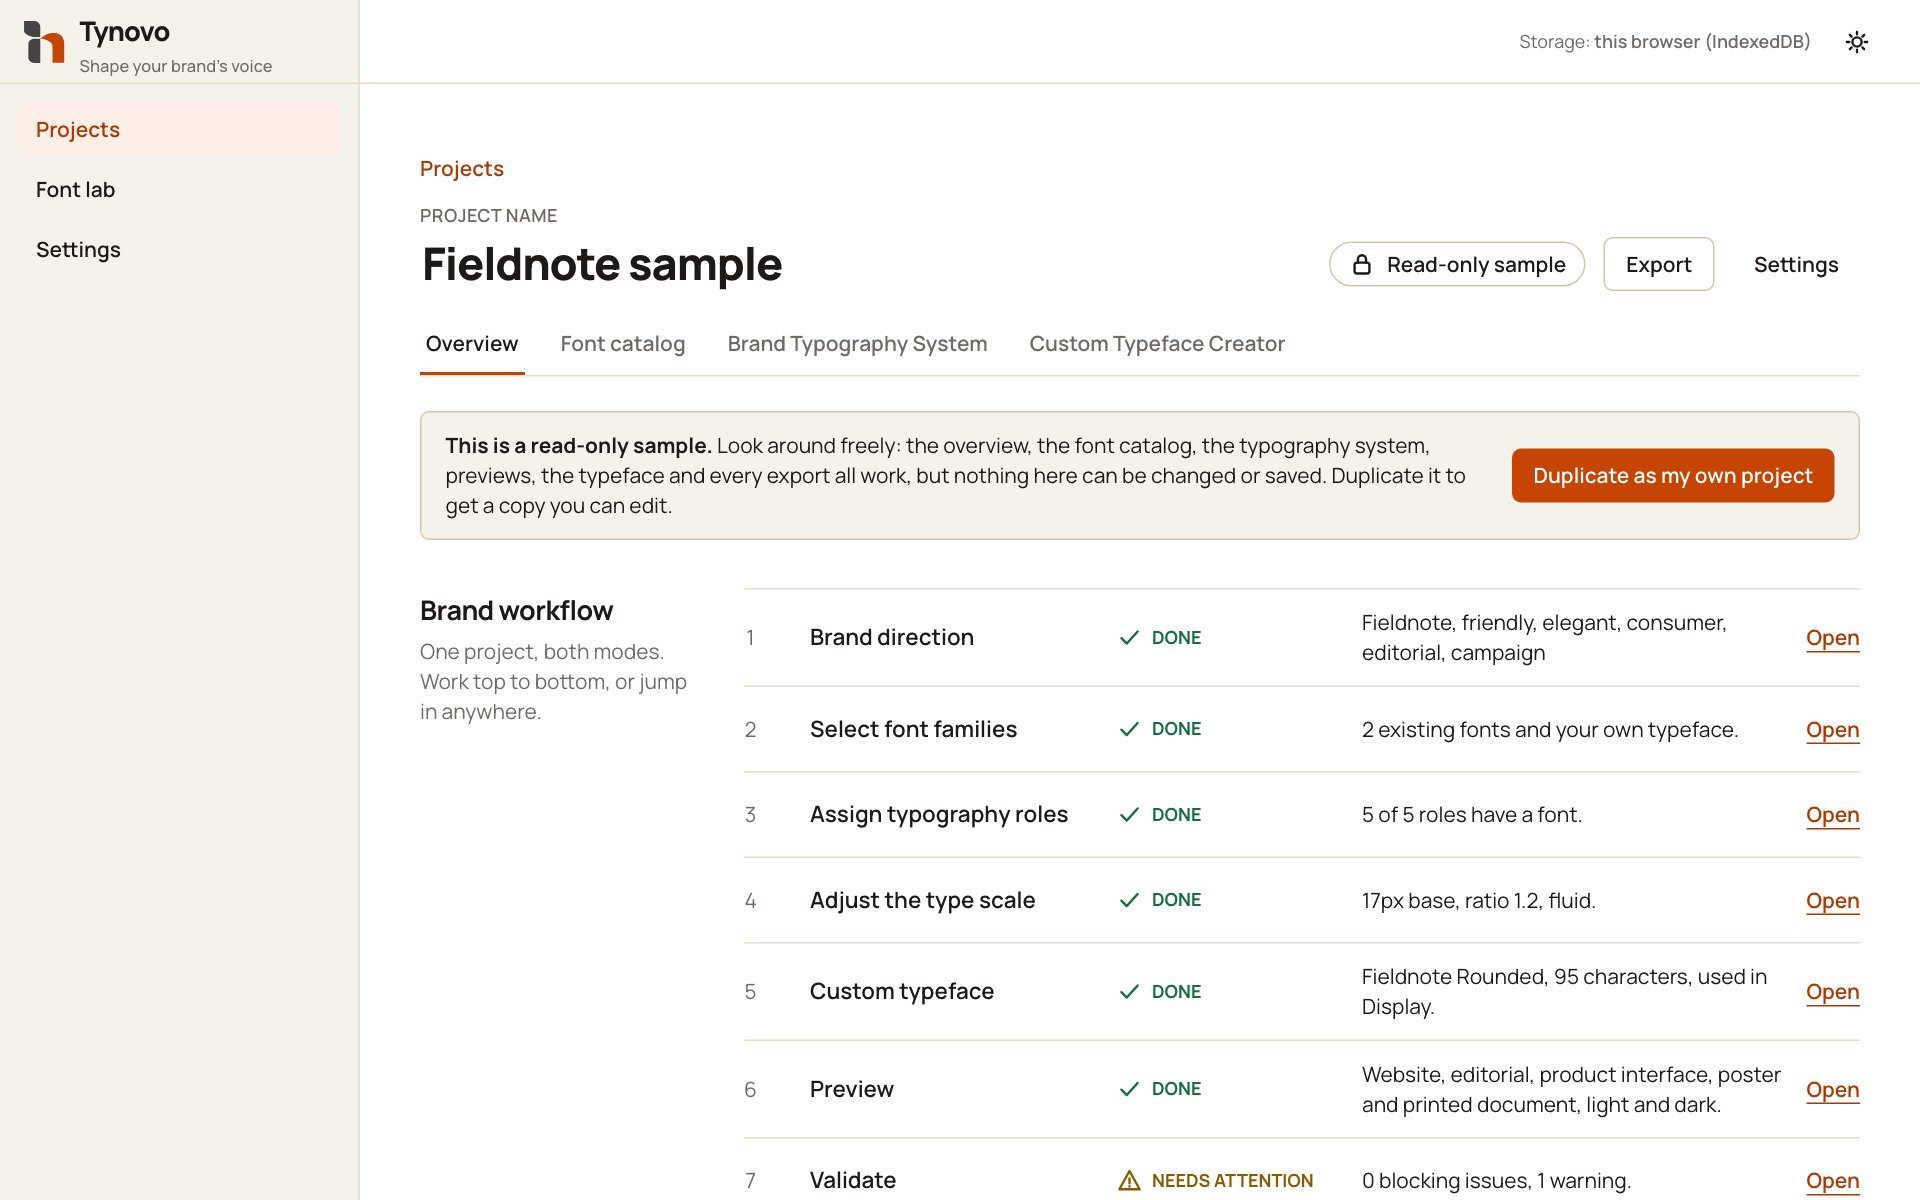
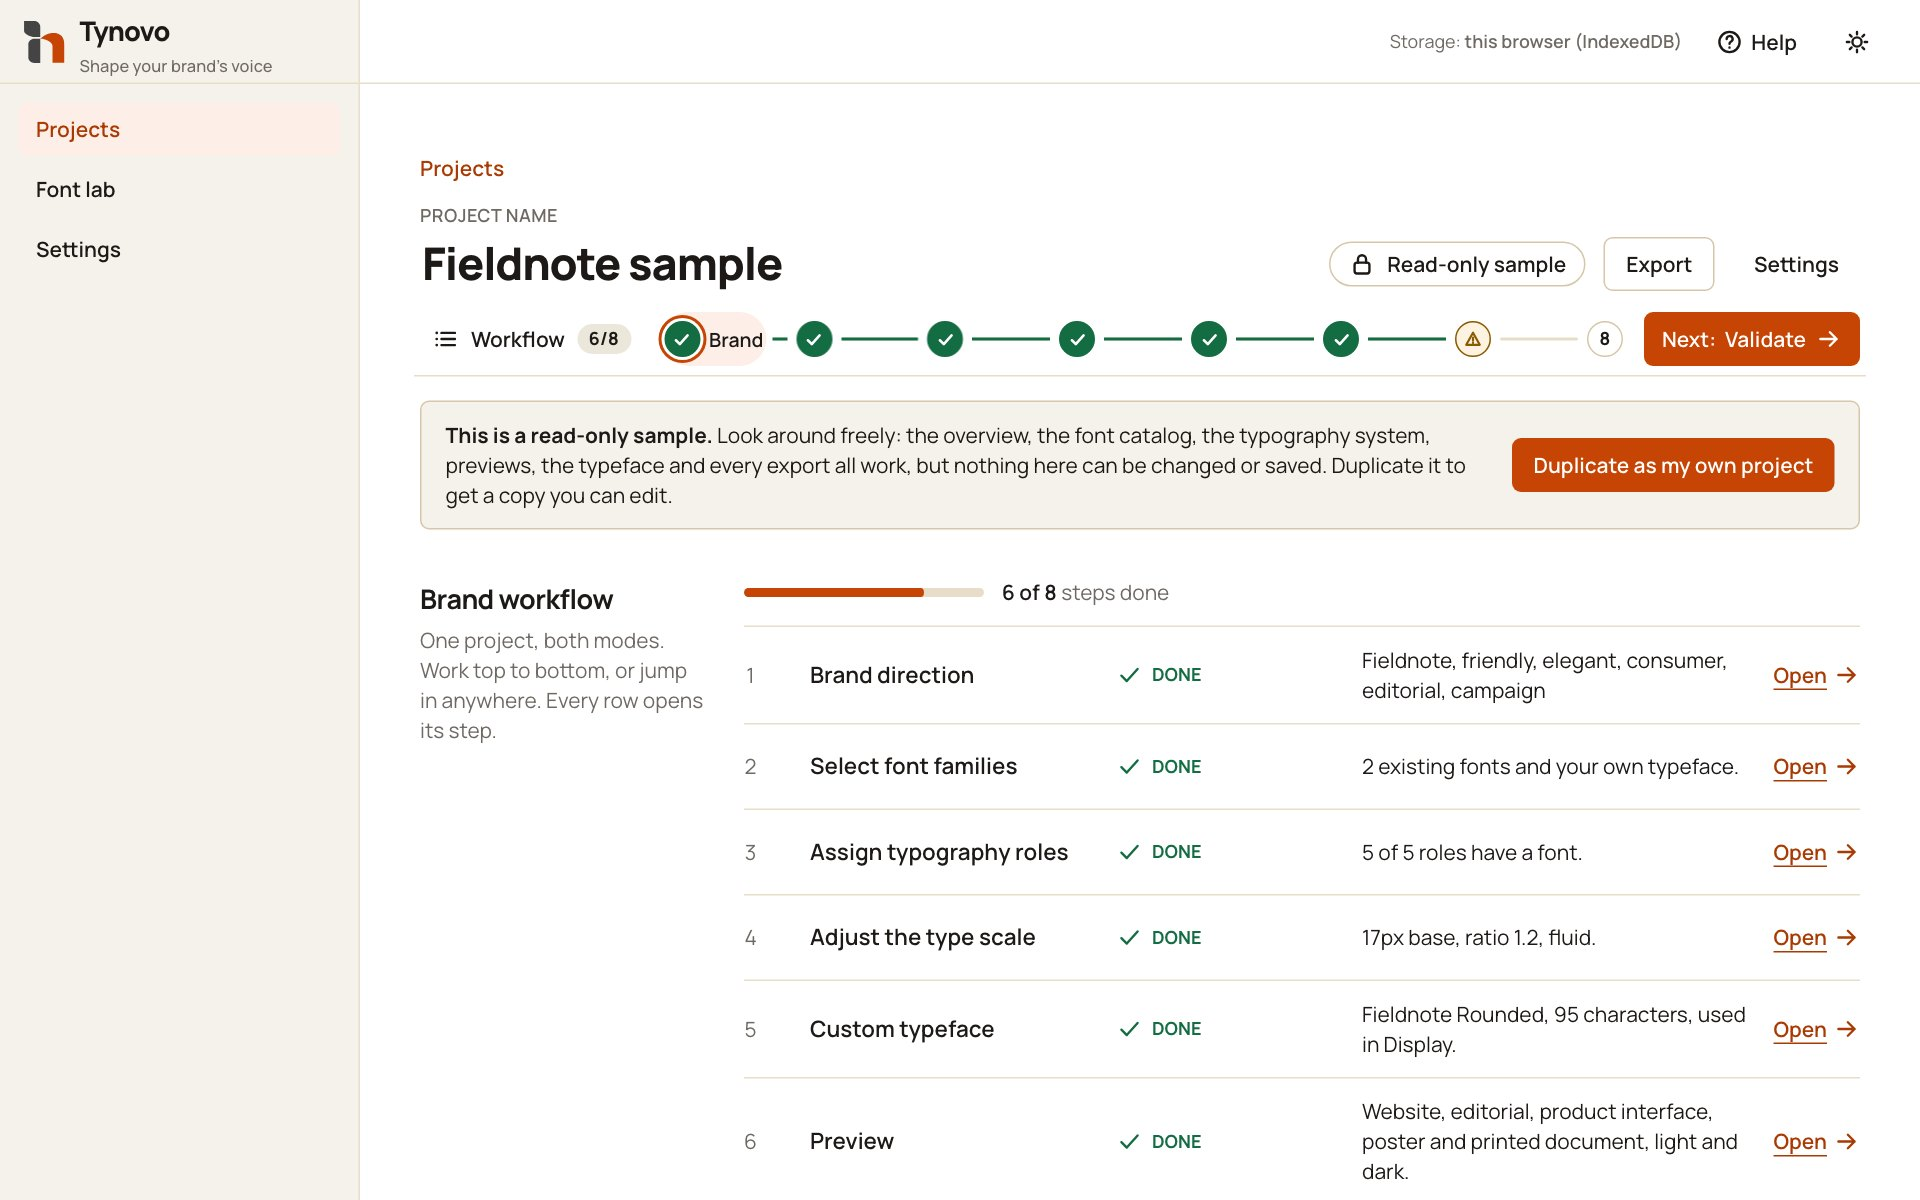
Drawer scrim, docs, FAQ and landing screenshots updated for the new navigation and Help

diff --git a/src/modules/marketing/content.ts b/src/modules/marketing/content.ts
@@ -142,6 +142,7 @@ export const FAQS: readonly Faq[] = [
   { group: 'Using it', q: 'Is there an example project I can look at?', a: 'Yes. Open the sample project from the projects page or from the link on the home page. It is a finished, invented project (a coffee brand called Fieldnote) with every screen filled in. It is read-only: nothing in it can be changed, saved or deleted, but you can browse everything, download its exports and duplicate it to get a copy of your own.' },
   { group: 'Using it', q: 'Will exporting my work ever cost money?', a: 'No plan can switch that off in the way Tynovo is built: exporting, importing, upgrading and recovering your own projects are protected in the code from any plan setting, and the tests check it. That describes how the software is built, not a contract, and no paid plan exists.' },
   { group: 'Using it', q: 'Do I need an account?', a: 'No. There is no sign-up and no database. Tynovo runs in your browser; its only server code is one small function that serves the optional AI suggestions.' },
+  { group: 'Using it', q: 'Is there help inside the app?', a: 'Yes. The Help button in the top bar, or the ? key, opens a side panel that explains the screen you are on and covers the two modes, the workflow, saving, keyboard shortcuts, the optional AI assist and the limits. Press anywhere outside a side panel, or Escape, to close it.' },
   { group: 'Using it', q: 'Where is my work stored?', a: 'In this browser, using IndexedDB. Clearing site data for this site deletes your projects, so export a project file to back up or to move work to another device. If the browser blocks storage, Tynovo says so and keeps work in memory only until you close the tab.' },
   { group: 'Using it', q: 'Does it use AI?', a: 'Only if you ask. Typefaces are generated by rules and parameters, and font suggestions and catalog ordering come from fixed scoring rules whose every point is shown. Two optional boxes (a brand direction on the Overview page, design settings in the typeface editor) can suggest values from a few sentences you write, using a language model (Groq) through a small function on the host. Only the text you type in that box is sent, only when you press its button; nothing is stored, nothing changes in your project until you apply the suggestion, and everything works without it. Do not put anything confidential in those boxes.' },
   { group: 'Using it', q: 'Can I use my own typeface in the typography system?', a: 'Yes. Assign it to display, heading, body, interface or caption roles. Tynovo offers it for a role only when it has the characters the role needs and is readable at that role’s size, tells you why when it is not, and warns about any character in a preview that it cannot draw.' },

diff --git a/e2e/help-and-ux.spec.ts b/e2e/help-and-ux.spec.ts
@@ -72,7 +72,10 @@ test.describe('help', () => {
     const drawer = page.getByRole('complementary', { name: 'Help' })
     await expect(drawer.getByTestId('help-screen')).toContainText('Brand Typography System')
     await expect(drawer.getByTestId('help-screen')).toContainText('Roles, pairing, the type scale')
-    // Pressing outside closes it; opened again on another screen it explains that one.
+    // Pressing the dimmed page closes it (and does nothing else); opened again on another screen it explains that one.
+    await page.mouse.click(20, 400)
+    await expect(drawer).toHaveCount(0)
+    await expect(page).toHaveURL(/\/typography$/)
     await page.getByTestId('workflow-bar').getByRole('navigation', { name: 'Workflow steps' }).getByRole('link', { name: 'Fonts', exact: true }).click()
     await expect(page).toHaveURL(/\/fonts$/)
     await expect(drawer).toHaveCount(0)
@@ -121,7 +124,8 @@ test.describe('help', () => {
     await page.goto(SAMPLE)
     await page.getByRole('button', { name: 'Help' }).click()
     await expect(page.getByRole('complementary', { name: 'Help' })).toBeVisible()
-    await page.getByTestId('workflow-bar').getByRole('button', { name: /Workflow/ }).click()
+    await page.getByTestId('workflow-bar').getByRole('button', { name: /Workflow/ }).focus() // the dimmed page takes no pointer, so open it from the keyboard
+    await page.keyboard.press('Enter')
     await expect(page.getByRole('complementary', { name: 'Workflow' })).toBeVisible()
     await expect(page.getByRole('complementary', { name: 'Help' })).toHaveCount(0)
   })

diff --git a/src/modules/shared-ui/Segmented.tsx b/src/modules/shared-ui/Segmented.tsx
@@ -8,7 +8,7 @@ export function Segmented<T extends string>({ label, value, options, onChange }:
       <legend className="mb-1 text-sm font-semibold text-ink-strong">{label}</legend>
       <div className="flex overflow-hidden rounded-md border border-line-strong">
         {options.map((o) => (
-          <label key={o.value} className="flex min-h-11 flex-1 cursor-pointer items-center justify-center px-3 text-center text-sm whitespace-nowrap font-semibold transition-colors has-checked:bg-accent has-checked:text-white has-focus-visible:outline-2 has-focus-visible:-outline-offset-2 has-focus-visible:outline-accent md:min-h-9 [&:not(:has(:checked))]:hover:bg-sheet-deep">
+          <label key={o.value} className="flex min-h-11 flex-1 cursor-pointer items-center justify-center px-2 text-center text-sm sm:px-3 sm:whitespace-nowrap font-semibold transition-colors has-checked:bg-accent has-checked:text-white has-focus-visible:outline-2 has-focus-visible:-outline-offset-2 has-focus-visible:outline-accent md:min-h-9 [&:not(:has(:checked))]:hover:bg-sheet-deep">
             <input type="radio" name={name} value={o.value} checked={value === o.value} onChange={() => onChange(o.value)} className="sr-only" />
             {o.label}
           </label>

diff --git a/src/modules/shared-ui/Drawer.tsx b/src/modules/shared-ui/Drawer.tsx
@@ -7,7 +7,7 @@ import { usePresence } from './presence'
 const COVERS_PAGE = '(max-width: 640px)'
 
 /**
- * Side panel. On a wide screen it is non-modal: the page behind stays readable and interactive. On a narrow one it
+ * Side panel. The page behind is dimmed by a scrim; pressing the scrim (or anywhere outside) closes it. On a narrow screen it
  * covers the page, so the page is made inert while it is open. Escape closes it; focus moves in on open (to a field
  * that asked for focus, otherwise to the panel) and back to the opener on close.
  */
@@ -48,6 +48,8 @@ export function Drawer({ open, title, onClose, children }: { open: boolean; titl
 
   if (!mounted) return null
   return (
+    <>
+    <div aria-hidden="true" data-fade data-closing={closing || undefined} className="modal-scrim fixed inset-0 z-[45] bg-black/40" />
     <aside
       ref={ref}
       tabIndex={-1}
@@ -65,5 +67,6 @@ export function Drawer({ open, title, onClose, children }: { open: boolean; titl
       </header>
       <div className="min-h-0 flex-1 overflow-y-auto px-5 py-4">{children}</div>
     </aside>
+    </>
   )
 }

diff --git a/src/modules/marketing/LaptopShowcase.tsx b/src/modules/marketing/LaptopShowcase.tsx
@@ -6,7 +6,7 @@ const SCREENS = [
     id: 'overview',
     tab: 'Overview',
     file: '/screens/overview.jpg',
-    caption: 'The whole workflow on one page: brand direction, fonts, roles, scale, typeface, preview, checks and export, each with its state.',
+    caption: 'The whole workflow on one page, with a numbered step bar that stays in view on every screen: brand direction, fonts, roles, scale, typeface, preview, checks and export, each with its state.',
     alt: 'The Overview screen of the Fieldnote sample project in Tynovo. A banner says the project is a read-only sample, and below it the brand workflow lists brand direction, fonts, roles, scale, typeface and preview as done, validate as needing attention and export still to do.',
   },
   {

diff --git a/scripts/make-screens.ts b/scripts/make-screens.ts
@@ -31,11 +31,11 @@ const shot = async (name: string) => {
 try {
   // 1. Overview: the whole workflow, filled in.
   await page.goto(SAMPLE)
-  await page.getByText('Brand workflow').waitFor()
+  await page.getByTestId('workflow-bar').waitFor()
   await shot('overview')
 
   // 2. Font catalog: a font opened with its weights, source and licence.
-  await page.getByRole('link', { name: 'Font catalog', exact: true }).click()
+  await page.getByTestId('workflow-bar').getByRole('link', { name: 'Fonts', exact: true }).click()
   await page.getByRole('button', { name: 'Details of Fraunces' }).click()
   await page.getByTestId('font-sample').and(page.locator('[data-state="loaded"]')).waitFor()
   await page.evaluate(() => window.scrollTo(0, 0))

diff --git a/e2e/brand-system.spec.ts b/e2e/brand-system.spec.ts
@@ -120,6 +120,7 @@ test('catalog fonts load only when needed, from the app itself, and a bounded nu
   // Open many fonts one after another: the number of registered faces never grows without limit.
   const names = ['Lora', 'Manrope', 'DM Sans', 'Work Sans', 'Caveat', 'Space Mono', 'Fraunces', 'Merriweather', 'Public Sans', 'EB Garamond', 'Bebas Neue', 'Abril Fatface']
   for (const name of names) {
+    await page.keyboard.press('Escape') // the open panel dims the list behind it
     await page.getByRole('button', { name: `Details of ${name}` }).click()
     await expect(page.getByTestId('font-sample')).toHaveAttribute('data-state', 'loaded')
   }

diff --git a/docs/known-limitations.md b/docs/known-limitations.md
@@ -46,4 +46,6 @@ Everything outstanding that a user, a reviewer or a maintainer should know befor
 
 ## Navigation
 
+- There are **no section tabs**: the workflow bar is the one way around a project (Fonts, Roles, Typeface and Export are steps; Settings and Export also sit in the project header). Its markers are numbered; the current step is filled, and step names show in full only from 1536 px wide (below that only the current step is named; the Workflow panel lists all).
+- **Help** is a side panel (`app-shell/help/`), opened from the top bar or the `?` key, that follows the current screen. All side panels (`shared-ui/Drawer`) dim the page with a scrim, close on a press outside, and slide in from the right and out to the right; only one of Help and Workflow is open at a time.
 - The **workflow bar** (`app-shell/workflow/`) is on every screen of a project, sticky under the top bar. It reads the same eight steps as the Overview list (`brand-system/workflow.ts`); which step is "current" follows the screen and the `#section`, and Validate and Export both live on the Export screen, so only Export is marked there. Motion: the bar and list use short fades and one arrival wash; with reduced motion the movements stop and the wash is a plain fade. A page's own `scroll-padding` keeps anything focused or jumped to below the two sticky bars (`index.css`).

diff --git a/docs/architecture.md b/docs/architecture.md
@@ -21,7 +21,7 @@ Domain modules are plain TypeScript with no React imports. UI modules depend on 
 | `entitlements` | domain | Feature registry, tier configuration (data, validated), capability resolution with a trust rule, presentation of locked features. No payment, account or server. See `monetisation-architecture.md` |
 | `app-shell` | UI | App layout (responsive nav), dashboard, project workspace (`ProjectLayout` + section pages), `useProjectEditor` autosave hook, storage context |
 | `marketing` | UI | Public website, `content.ts` (single source of capability status), `seo-config.ts` (page metadata shared by client and build) |
-| `shared-ui` | UI | Button, Banner, non-modal Drawer |
+| `shared-ui` | UI | Button, Banner, Drawer (scrim, closes on an outside press) |
 | `design-tokens` | styling | `tokens.css` (Tailwind `@theme`): Manrope, `#C74504`, `#444444`, neutrals, radii, shadows |
 | `testing` | support | Vitest setup (jsdom, fake-indexeddb), deterministic clock |
 
